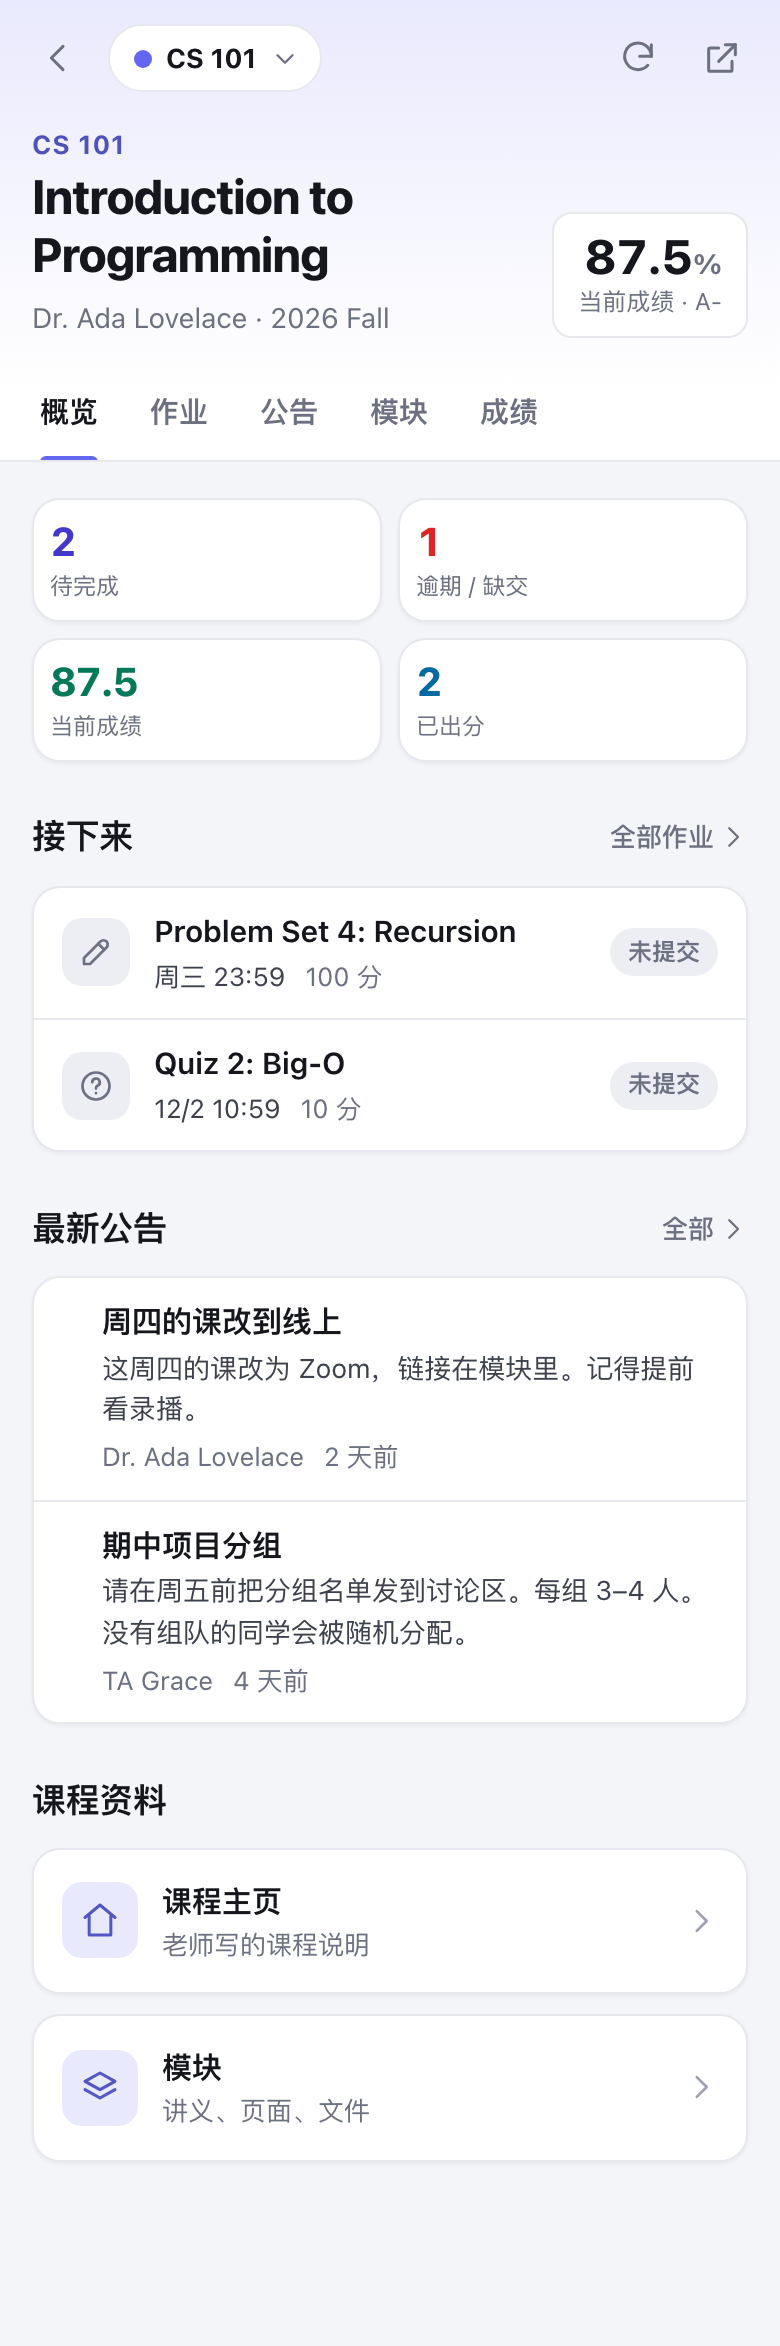
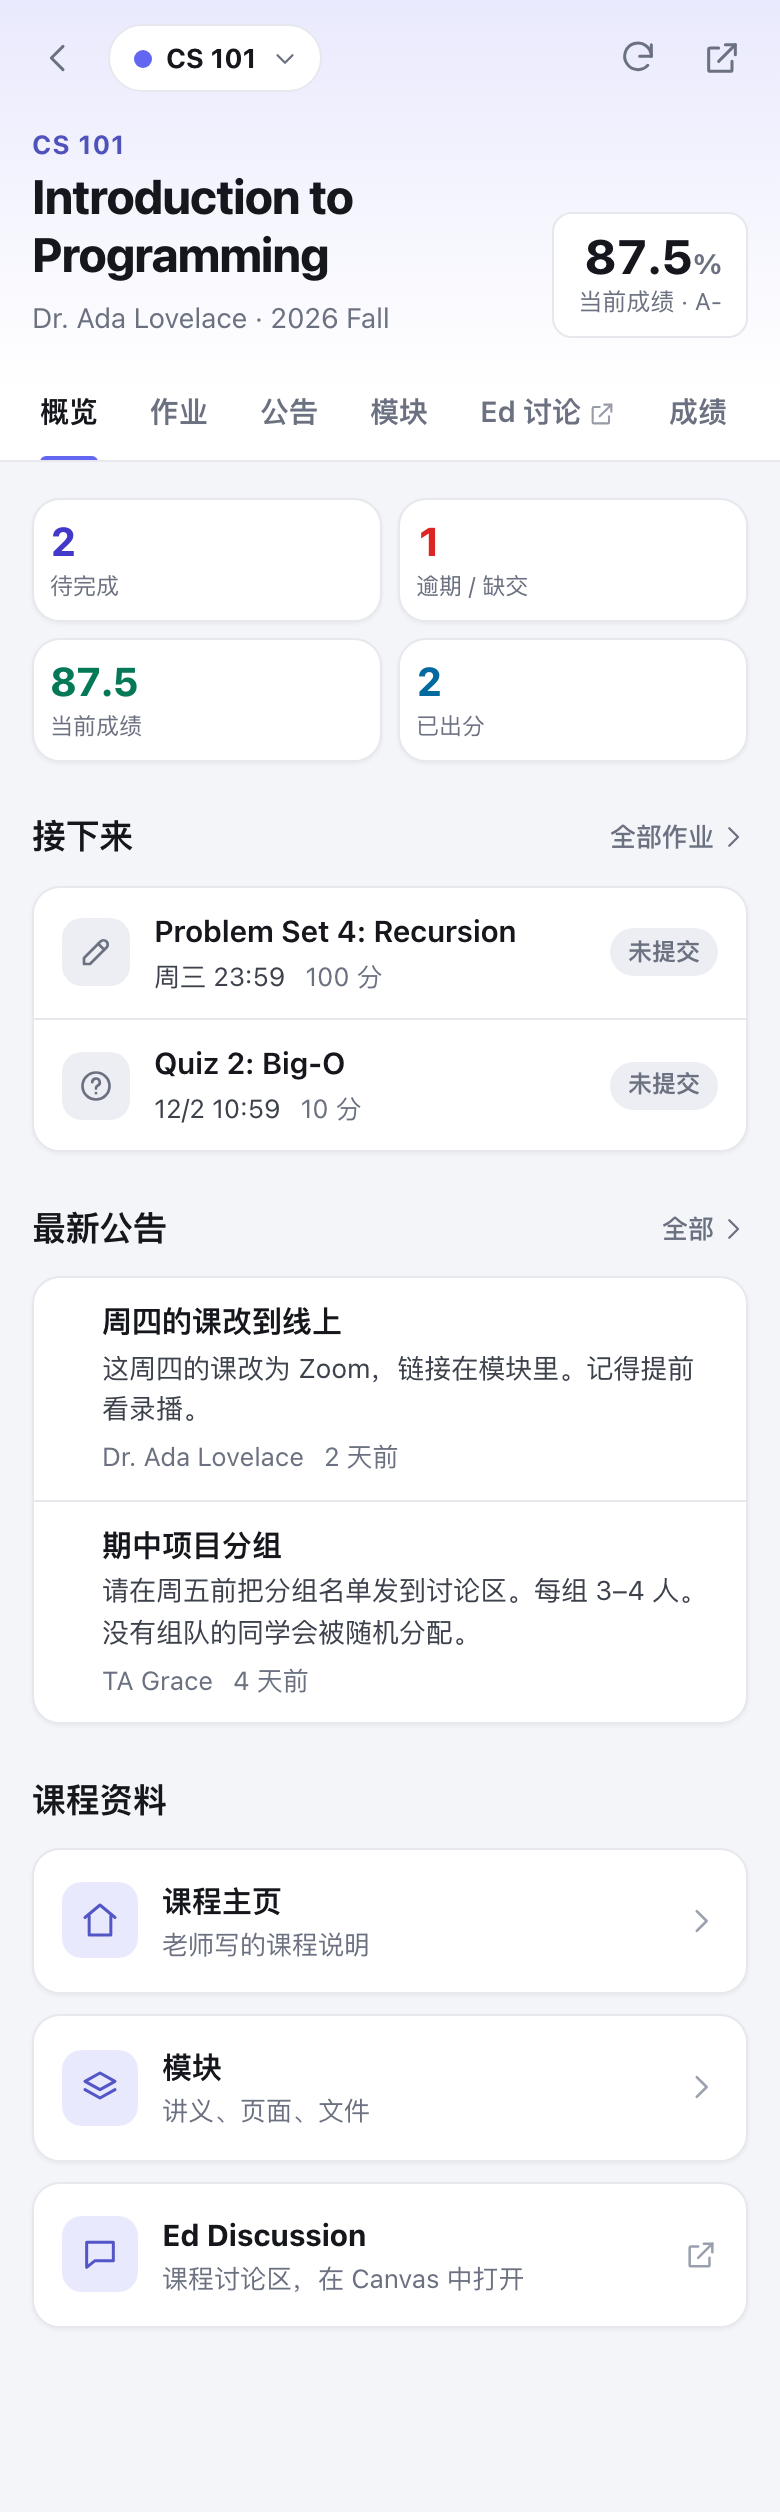
feat: 课程有 Ed Discussion 时加入口（v2.2.0）
- 读课程导航 /api/v1/courses/:id/tabs，找到没被隐藏的 Ed Discussion 外部工具
- 栏目条「模块」后面加「Ed 讨论」外链，概览「课程资料」里加 Ed Discussion 卡片
- 新标签页经 Canvas 的 external_tools 启动（Ed 是 LTI 工具，只能经 Canvas 打开）
- 模拟 Canvas 加导航数据，端到端测试 +5（85 项）
- 文档、截图、三处版本号同步到 2.2.0

diff --git a/public/js/app.js b/public/js/app.js
@@ -12,7 +12,7 @@
 
   const API = window.CanvasAPI;
   const config = API.loadConfig();
-  const VERSION = '2.1.2';
+  const VERSION = '2.2.0';
 
   const root = document.documentElement;
   const app = document.getElementById('app');
@@ -1525,12 +1525,13 @@
           </div>
           <nav class="tabs" role="tablist" aria-label="课程栏目">
             ${COURSE_TABS.map(([key, label]) => `<a role="tab" aria-selected="${tab === key}" data-replace-route class="${tab === key ? 'on' : ''}"
-              href="#/course/${course.id}${key === 'overview' ? '' : '?tab=' + key}">${label}</a>`).join('')}
+              href="#/course/${course.id}${key === 'overview' ? '' : '?tab=' + key}">${label}</a>${key === 'modules' ? edSlotHtml(course) : ''}`).join('')}
           </nav>
         </header>
         <div id="course-body" class="course-body">${keepScroll ? '' : skeleton('list')}</div>
       </div>`;
 
+    fillEdSlot(course, seq, force);
     const body = $('#course-body');
     const load = (key, ttl, loader) => settle(cached(key, ttl, loader, force));
     let html;
@@ -1589,6 +1590,45 @@
     });
   }
 
+  // Ed Discussion 是挂在课程导航里的外部工具（LTI），只能经 Canvas 启动：找到就在「模块」旁放一个外链
+  const ED_TAB_TTL = 6 * 3600 * 1000;
+  function edDiscussionTab(tabs) {
+    return (tabs || []).find((t) => t && !t.hidden && t.html_url
+      && (t.type === 'external' || /\/external_tools\//.test(t.html_url))
+      && /^\s*ed\s*$|\bed\s*discussion\b|\bedstem\b/i.test(t.label || ''));
+  }
+
+  function edLinkHtml(tab) {
+    return `<a class="tab-ext" data-ed-link href="${esc(canvasHref(tab.html_url))}" target="_blank" rel="noopener"
+      title="在 Canvas 中打开 Ed Discussion">Ed 讨论${icon('external')}</a>`;
+  }
+
+  function edQuickHtml(tab) {
+    return `<a class="quick" data-ed-quick href="${esc(canvasHref(tab.html_url))}" target="_blank" rel="noopener">${icon('chat')}<span><b>Ed Discussion</b><small>课程讨论区，在 Canvas 中打开</small></span>${icon('external', 'row-arrow')}</a>`;
+  }
+
+  // 栏目条和概览「课程资料」各留一个位置：导航数据已缓存就直接画，否则先占位，拿到后再填
+  function edSlotHtml(course) {
+    const ed = edDiscussionTab(peek(`tabs:${course.id}`));
+    return ed ? edLinkHtml(ed) : '<span id="ed-slot" hidden></span>';
+  }
+
+  function edQuickSlotHtml(course) {
+    const ed = edDiscussionTab(peek(`tabs:${course.id}`));
+    return ed ? edQuickHtml(ed) : '<span id="ed-quick-slot" hidden></span>';
+  }
+
+  async function fillEdSlot(course, seq, force) {
+    const res = await settle(cached(`tabs:${course.id}`, ED_TAB_TTL, () => API.tabs(course.id), force));
+    if (stale(seq) || !res.ok) return;
+    const ed = edDiscussionTab(res.data);
+    if (!ed) return;
+    const slot = $('#ed-slot');
+    if (slot) slot.outerHTML = edLinkHtml(ed);
+    const quick = $('#ed-quick-slot');
+    if (quick) quick.outerHTML = edQuickHtml(ed);
+  }
+
   function overviewHtml(course, aRes, nRes) {
     const assignments = aRes.ok ? aRes.data || [] : [];
     const now = new Date();
@@ -1629,6 +1669,7 @@
           <div class="quick-links">
             <a class="quick" href="#/course/${course.id}/front?from=overview">${icon('home')}<span><b>课程主页</b><small>老师写的课程说明</small></span>${icon('right', 'row-arrow')}</a>
             <a class="quick" href="#/course/${course.id}?tab=modules" data-replace-route>${icon('layers')}<span><b>模块</b><small>讲义、页面、文件</small></span>${icon('right', 'row-arrow')}</a>
+            ${edQuickSlotHtml(course)}
           </div>
         </section>
       </div>`;

diff --git a/public/js/api.js b/public/js/api.js
@@ -319,6 +319,10 @@
     page: (courseId, slug) =>
       request(`/api/v1/courses/${courseId}/pages/${encodeURIComponent(slug)}`).then((res) => res.data),
 
+    // 课程左侧导航（含 Ed Discussion 等外部工具）；学生看不到被隐藏的栏目
+    tabs: (courseId) =>
+      request(`/api/v1/courses/${courseId}/tabs`).then((res) => (Array.isArray(res.data) ? res.data : [])),
+
     modules: (courseId) =>
       request(`/api/v1/courses/${courseId}/modules`, {
         query: { 'include[]': 'items', per_page: 100 },

diff --git a/public/css/style.css b/public/css/style.css
@@ -657,6 +657,8 @@ html.panel-dock .course-grid { grid-template-columns: 1fr; }
   color: var(--muted); font-weight: 600; font-size: 14.5px;
 }
 .tabs a:hover { color: var(--text); }
+.tabs a.tab-ext { display: inline-flex; align-items: center; gap: 4px; }
+.tabs a.tab-ext .ico { width: 14px; height: 14px; opacity: .7; }
 .tabs a.on { color: var(--text); }
 .tabs a.on::after {
   content: ""; position: absolute; left: 12px; right: 12px; bottom: -1px; height: 3px;

diff --git a/public/sw.js b/public/sw.js
@@ -1,7 +1,7 @@
 /* Canvas Lite · Service Worker
  * 只缓存应用外壳；Canvas 数据永远走网络，避免看到过期成绩。
  */
-const VERSION = 'canvas-lite-v2.1.2';
+const VERSION = 'canvas-lite-v2.2.0';
 const SHELL = [
   './',
   './index.html',

diff --git a/维护说明.md b/维护说明.md
@@ -47,7 +47,7 @@ npx wrangler login                  # 第一次部署前需要，浏览器里授
 npm test
 ```
 
-先跑单元测试（代理 8 项 + 成绩计算 7 项），再启动假 Canvas 和本地服务跑端到端测试。**验收基线：单元 15 项全过 + 端到端「通过 80 项，失败 0 项」。** 不需要真实令牌。
+先跑单元测试（代理 8 项 + 成绩计算 7 项），再启动假 Canvas 和本地服务跑端到端测试。**验收基线：单元 15 项全过 + 端到端「通过 85 项，失败 0 项」。** 不需要真实令牌。
 
 - 测试占用端口 8787、8788、9911、9912，先停掉 `npm start` 等占用这些端口的服务
 - 端到端截图输出到 `test/screenshots/`（不提交）。`docs/screenshots/` 里的说明截图就是从这里挑出来的，界面改动较大时重新挑一遍替换
@@ -120,6 +120,7 @@ canvas-lite-selfhost/
 
 - **公告汇总**：`GET /api/v1/announcements?context_codes[]=course_<id>`（`api.js` 的 `allAnnouncements`），一次取所有课程最近 45 天。未读 = Canvas 的 `read_state` 为 unread 且本机没打开过
 - **成绩构成**：`GET /api/v1/courses/:id/assignment_groups?include[]=assignments&include[]=submission`（`api.js` 的 `assignmentGroups`），交给 `grades.js` 的 `computeCourseGrade(groups, { weighted })`；是否按分组加权看课程的 `apply_assignment_group_weights`。接口失败时退回「只列已评分作业」。全局「成绩」页优先用 Canvas 官方成绩，缺失时用构成估算补位并标「估算」
+- **Ed Discussion 入口**：`GET /api/v1/courses/:id/tabs`（`api.js` 的 `tabs`，缓存键 `tabs:<id>`，6 小时）。`app.js` 的 `edDiscussionTab` 找标签为 Ed / Ed Discussion / EdStem、类型为外部工具、没被隐藏的那一项，在栏目条「模块」后面和概览「课程资料」里各放一个外链，指向 Canvas 的 `/courses/:id/external_tools/:tool_id`。Ed 是 LTI 工具，只能经 Canvas 启动，所以点开会跳到 Canvas（浏览器要登录过 Canvas）。别的学校给 Ed 起了不同的名字时，改这个正则
 - **localStorage 键**：`canvas-lite.cache.v3`（数据缓存）、`canvas-lite.prefs.v2`（偏好）、`canvas-lite.seen.v1`（已读公告）、`canvas-lite.config.v1`（地址和令牌）。改了数据结构就把对应键的版本号加一
 
 ### 代理
@@ -152,6 +153,7 @@ canvas-lite-selfhost/
 
 | 版本 | 内容 |
 | --- | --- |
+| v2.2.0 | 课程有 Ed Discussion 时，在「模块」旁和概览「课程资料」里加「Ed 讨论」入口（新标签页经 Canvas 打开） |
 | v2.1.2 | 全局「成绩」页同时显示 Canvas 官方成绩与构成估算，官方成绩缺失时用估算补位，标「估算」 |
 | v2.1.0 | 课程「成绩」栏目改为成绩构成：每项占总评比例、已得分、当前得分，以及总评达到 50 / 65 / 75 / 85 需要剩余平均多少；新增 `grades.js` 和单元测试；代理补固定 User-Agent |
 | v2.0.2 | 修复代理在 Cloudflare 上全部请求失败（`redirect: 'error'` → `'manual'`） |
